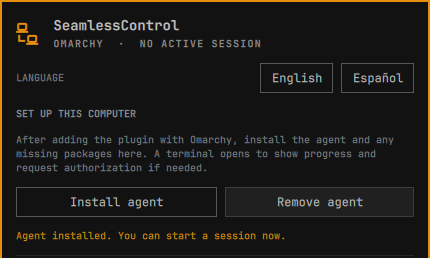
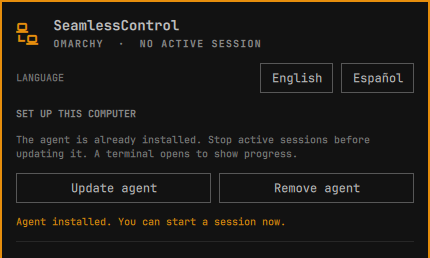
Document plugin updates and enable agent refresh

diff --git a/plugin/Panel.qml b/plugin/Panel.qml
@@ -203,7 +203,9 @@ Panel {
 
         Text {
           Layout.fillWidth: true
-          text: root.t("Después de añadir el plugin con Omarchy, instale aquí el agente y los paquetes que falten. Se abrirá una terminal para mostrar el progreso y pedir autorización si hace falta.")
+          text: root.backend && root.backend.installed
+            ? root.t("El agente ya está instalado. Detenga las sesiones activas antes de actualizarlo. Se abrirá una terminal para mostrar el progreso.")
+            : root.t("Después de añadir el plugin con Omarchy, instale aquí el agente y los paquetes que falten. Se abrirá una terminal para mostrar el progreso y pedir autorización si hace falta.")
           textFormat: Text.PlainText
           wrapMode: Text.WordWrap
           color: root.muted
@@ -216,10 +218,12 @@ Panel {
           spacing: Style.space(8)
           Button {
             Layout.fillWidth: true
-            text: root.t("Instalar agente")
+            text: root.backend && root.backend.installed
+              ? root.t("Actualizar agente") : root.t("Instalar agente")
             bordered: true
             focusable: true
-            enabled: root.backend && !root.backend.installed && !root.backend.setupBusy
+            enabled: root.backend && !root.backend.available && !root.backend.managedAgentRunning
+              && !root.backend.setupBusy
             foreground: root.ink
             accent: Color.accent
             fontFamily: root.face

diff --git a/plugin/Translations.js b/plugin/Translations.js
@@ -5,7 +5,9 @@ var english = {
   "IDIOMA": "LANGUAGE",
   "PREPARAR ESTE EQUIPO": "SET UP THIS COMPUTER",
   "Después de añadir el plugin con Omarchy, instale aquí el agente y los paquetes que falten. Se abrirá una terminal para mostrar el progreso y pedir autorización si hace falta.": "After adding the plugin with Omarchy, install the agent and any missing packages here. A terminal opens to show progress and request authorization if needed.",
+  "El agente ya está instalado. Detenga las sesiones activas antes de actualizarlo. Se abrirá una terminal para mostrar el progreso.": "The agent is already installed. Stop active sessions before updating it. A terminal opens to show progress.",
   "Instalar agente": "Install agent",
+  "Actualizar agente": "Update agent",
   "Retirar agente": "Remove agent",
   "Se retirará el agente y solo los paquetes que instaló SeamlessControl. Las claves y equipos emparejados se conservarán. Después puede quitar el widget con omarchy plugin remove seamlesscontrol.control.": "This removes the agent and only packages installed by SeamlessControl. Keys and paired computers stay. You can then remove the widget with omarchy plugin remove seamlesscontrol.control.",
   "Confirmar retirada": "Confirm removal",

diff --git a/docs/TECHNICAL.es.md b/docs/TECHNICAL.es.md
@@ -14,7 +14,7 @@ Alternativa desde terminal:
 bash ~/.config/omarchy/plugins/seamlesscontrol.control/packaging/install-agent.sh
 ```
 
-Para actualizar el widget en **cada** equipo, ejecuta `omarchy plugin update seamlesscontrol.control`. Si cambió el agente, pulsa otra vez **Instalar agente** (o usa el comando de terminal) y reinicia los agentes activos en ambos extremos. Un proceso en marcha conserva la revisión anterior hasta reiniciarlo. Las claves y el mapa se conservan.
+Para actualizar el widget en **cada** equipo, ejecuta `omarchy plugin update seamlesscontrol.control`. Si cambió el agente, detén cualquier sesión activa, pulsa **Actualizar agente** en el panel (o usa el comando de terminal) y reinicia el agente en ambos extremos. Un proceso en marcha conserva la revisión anterior hasta reiniciarlo. Las claves y el mapa se conservan.
 
 **Retirar agente** ejecuta `uninstall-agent.sh --remove-deps` en una terminal de Omarchy. Detiene los servicios de usuario instalados, elimina el binario y retira solo los paquetes registrados como instalados por este plugin. Pacman rechazará la retirada de paquetes requeridos por otros. Los paquetes que ya estaban presentes no se registran. La desinstalación CLI predeterminada, sin `--remove-deps`, conserva los paquetes. Ninguna ruta borra `~/.config/seamlesscontrol/` (identidad, pares, mapa). Retira una regla de firewall por separado antes de `omarchy plugin remove seamlesscontrol.control`.
 

diff --git a/docs/TECHNICAL.md b/docs/TECHNICAL.md
@@ -14,7 +14,7 @@ The terminal fallback is:
 bash ~/.config/omarchy/plugins/seamlesscontrol.control/packaging/install-agent.sh
 ```
 
-To update the widget on **each** machine, run `omarchy plugin update seamlesscontrol.control`. For agent code changes, run **Install agent** again (or the terminal command), then restart any running agent on both ends. An already running process keeps using its old binary until restarted. Pairing keys and layout are preserved.
+To update the widget on **each** machine, run `omarchy plugin update seamlesscontrol.control`. For agent code changes, stop any active session, choose **Update agent** in the panel (or use the terminal command), then restart the agent on both ends. An already running process keeps using its old binary until restarted. Pairing keys and layout are preserved.
 
 **Remove agent** in the panel runs `uninstall-agent.sh --remove-deps` in an Omarchy terminal. It stops installed user services, removes the binary and removes only packages recorded as installed by this plugin. Pacman will refuse removals needed by other packages. Packages that predated the plugin are never recorded. The default CLI uninstall, without `--remove-deps`, leaves packages installed. Neither path deletes `~/.config/seamlesscontrol/` (identity, peers, layout). Remove a firewall rule separately before `omarchy plugin remove seamlesscontrol.control`.
 

diff --git a/README.es.md b/README.es.md
@@ -21,7 +21,19 @@ Abre **SeamlessControl** desde la barra de Omarchy. El panel comienza en inglés
 
 ![Controles de idioma e instalación de SeamlessControl](docs/images/setup-es.png)
 
+La captura muestra un agente ya instalado, por eso el botón dice **Actualizar agente**. En un equipo nuevo, dice **Instalar agente**.
+
 La primera compilación descarga dependencias de Rust y puede tardar. El panel detecta automáticamente el agente. El widget instalado por sí solo todavía no puede compartir la entrada.
+
+## Actualizar en ambos equipos
+
+Detén cualquier sesión activa de SeamlessControl. En **cada** Omarchy, actualiza el widget con el comando estándar:
+
+```bash
+omarchy plugin update seamlesscontrol.control
+```
+
+Abre el panel y pulsa **Actualizar agente** en **Preparar este equipo**. La terminal recompilará y reemplazará el agente sin borrar las claves de emparejamiento ni el mapa de equipos. Cierra la terminal cuando termine y vuelve a iniciar la recepción o el uso compartido. Actualiza ambos equipos antes de usar una versión nueva del agente. Un cambio de idioma del widget no requiere actualizarlo.
 
 ## Conectar dos equipos Omarchy
 

diff --git a/README.md b/README.md
@@ -21,7 +21,19 @@ Open **SeamlessControl** from the Omarchy bar. The panel starts in English; sele
 
 ![The SeamlessControl language and setup controls in the Omarchy panel](docs/images/setup-en.png)
 
+The screenshot shows an existing installation, so this button reads **Update agent**. On a new computer, it reads **Install agent**.
+
 The first build downloads Rust dependencies and can take a while. The panel detects the agent automatically. The installed widget alone cannot share input until the agent is installed.
+
+## Update on both computers
+
+Stop any active SeamlessControl session. On **each** Omarchy, update the widget with the standard command:
+
+```bash
+omarchy plugin update seamlesscontrol.control
+```
+
+Open the panel and choose **Update agent** under **Set up this computer**. The terminal rebuilds and replaces the agent while keeping pairing keys and the computer layout. Close the terminal when it finishes, then start receiving or sharing again. Update both computers before using a new agent version. If you only changed the widget's language, no update is needed.
 
 ## Connect two Omarchy computers
 
